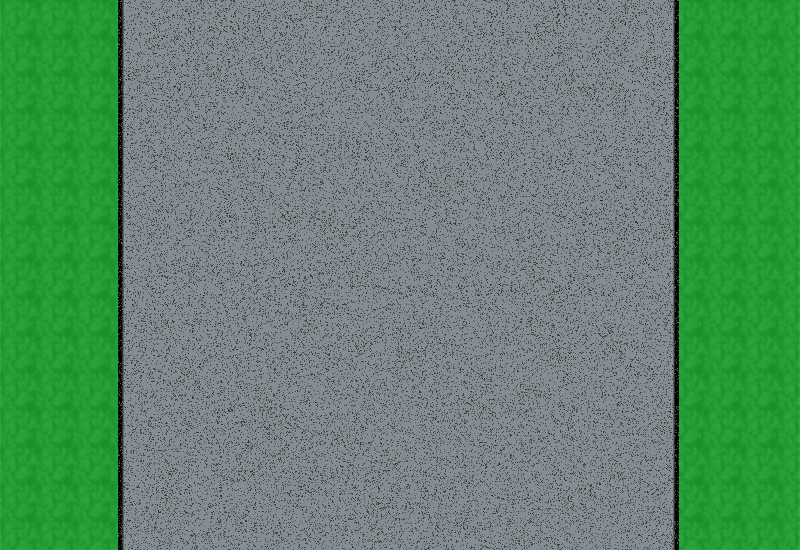
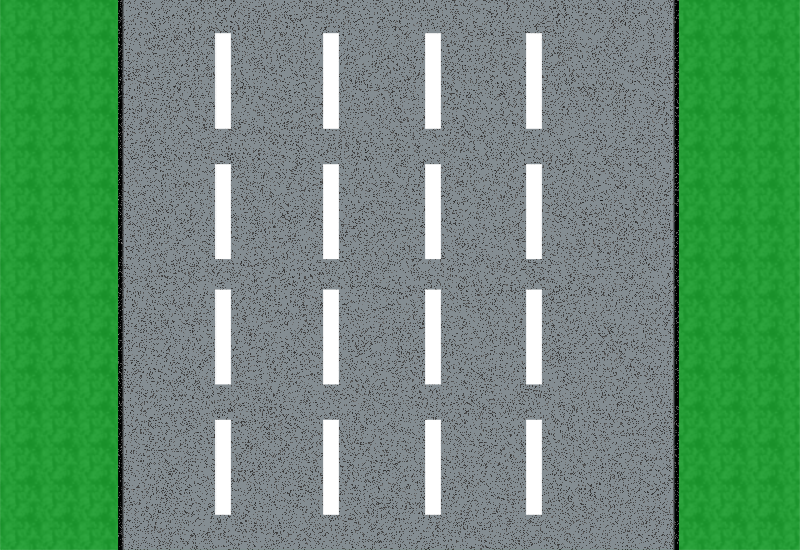
GUI intersections and paths added.

diff --git a/js/main/Presentation/View/TrackUI.js b/js/main/Presentation/View/TrackUI.js
@@ -25,7 +25,7 @@ var Presentation = window.Presentation || {};
     };
 
     TrackUI = (function(){        
-        var car, canvasStage, vehicleLayer, boxLayer, weaponLayer, enemyLayer, labelLayer, bulletLayer,
+        var car, canvasStage, vehicleLayer, boxLayer, weaponLayer, enemyLayer, labelLayer, bulletLayer, intersectionLayer,
             gameOver = false, vehicle, numberOfShots = 2, enemiesCollection = [], player,
             enemiesPositionX = [175, 275, 375, 475, 575];
         var currentWeapon, currentChromosome, currentEnemies = [];
@@ -70,6 +70,7 @@ var Presentation = window.Presentation || {};
             enemyLayer = new Kinetic.Layer();
             labelLayer = new Kinetic.Layer();
             bulletLayer = new Kinetic.Layer();
+            intersectionLayer = new Kinetic.Layer();
             
             var pit = new Kinetic.Rect({
                 x: 90,
@@ -80,7 +81,7 @@ var Presentation = window.Presentation || {};
             });
             
             var pit2 = new Kinetic.Rect({
-                x: 650,
+                x: 645,
                 fillPatternImage: images.pit,
                 width: 34,
                 height: 1200,
@@ -206,10 +207,47 @@ var Presentation = window.Presentation || {};
             canvasStage.add(enemyLayer);      
             canvasStage.add(labelLayer);      
             canvasStage.add(bulletLayer);   
+            canvasStage.add(intersectionLayer);
             
             getRandomObjects(images);          
             arrowKeys(images);
+            createIntersection(3);
         }   
+        
+        function createIntersection(pIntersection){
+            var x = 124;
+            var width = 521;
+            var color = ["#CC0000", "#FF6600", "#009900"];
+            for(var i = 0; i < pIntersection; i++){
+                createGraphicalIntersection(x , width, color[i]);
+                if(pIntersection == 2){
+                    x += 314;   
+                    width = 207;
+                }
+                if(pIntersection == 3){
+                    if(i == 0)
+                        x += 314;
+                    else
+                        x += 103;
+                    
+                    width = 104;
+                }
+            }
+        }
+        
+        function createGraphicalIntersection(pPosX, pWidth, pColor){
+            var intersection = new Kinetic.Rect({
+                x: pPosX,
+                y: 0,
+                fill: pColor,
+                width: pWidth,
+                height: 10
+            });
+            intersectionLayer.add(intersection);
+            intersectionLayer.draw();   
+        }
+        
+        
         function getRandomObjects(pImages){
             var randomEnemies = getRandomInt(1, 3);
             var randomXBox = getRandomInt(0, 4);
